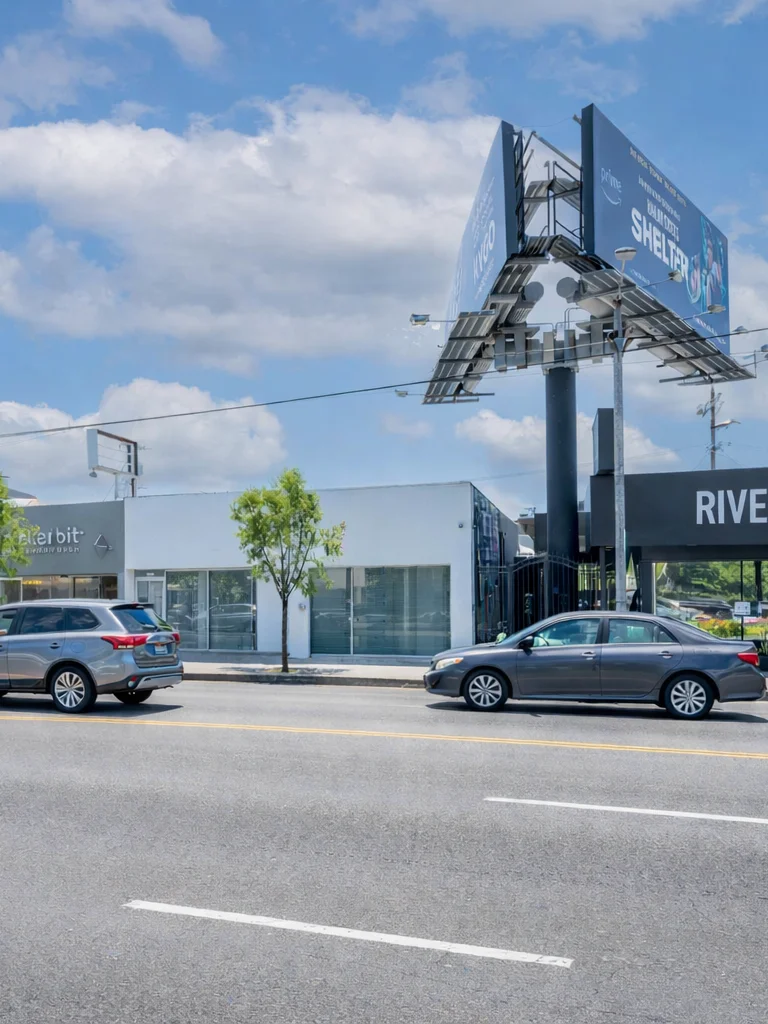
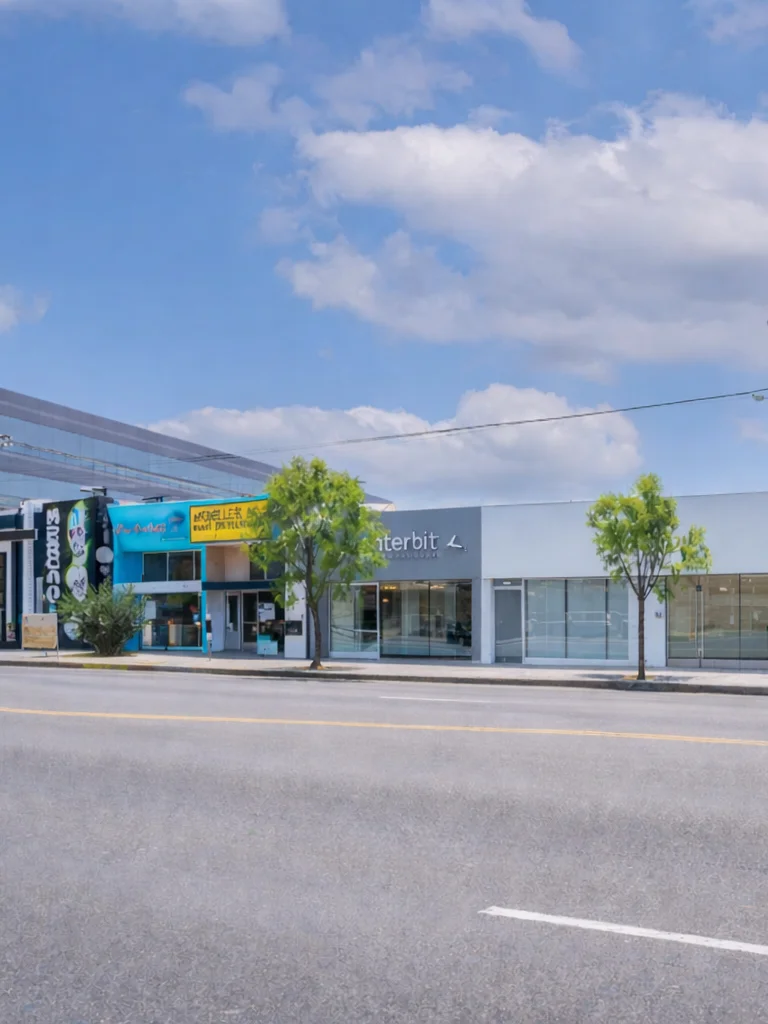
feat: reduce Projects bottom spacing, update asset-management image
- Tighter bottom padding on Projects section to match Contact
- Replace asset-management.webp with WebP from new PNG source

diff --git a/components/sections/Projects.tsx b/components/sections/Projects.tsx
@@ -84,7 +84,7 @@ function Projects() {
     <section 
       ref={sectionRef} 
       id="projects" 
-      className="section-spacing relative bg-texture-paper"
+      className="section-spacing pb-10 sm:pb-12 md:pb-14 lg:pb-16 relative bg-texture-paper"
       style={{ backgroundColor: 'var(--color-cream)' }}
     >
       {/* Section top divider - with spacing from content */}
